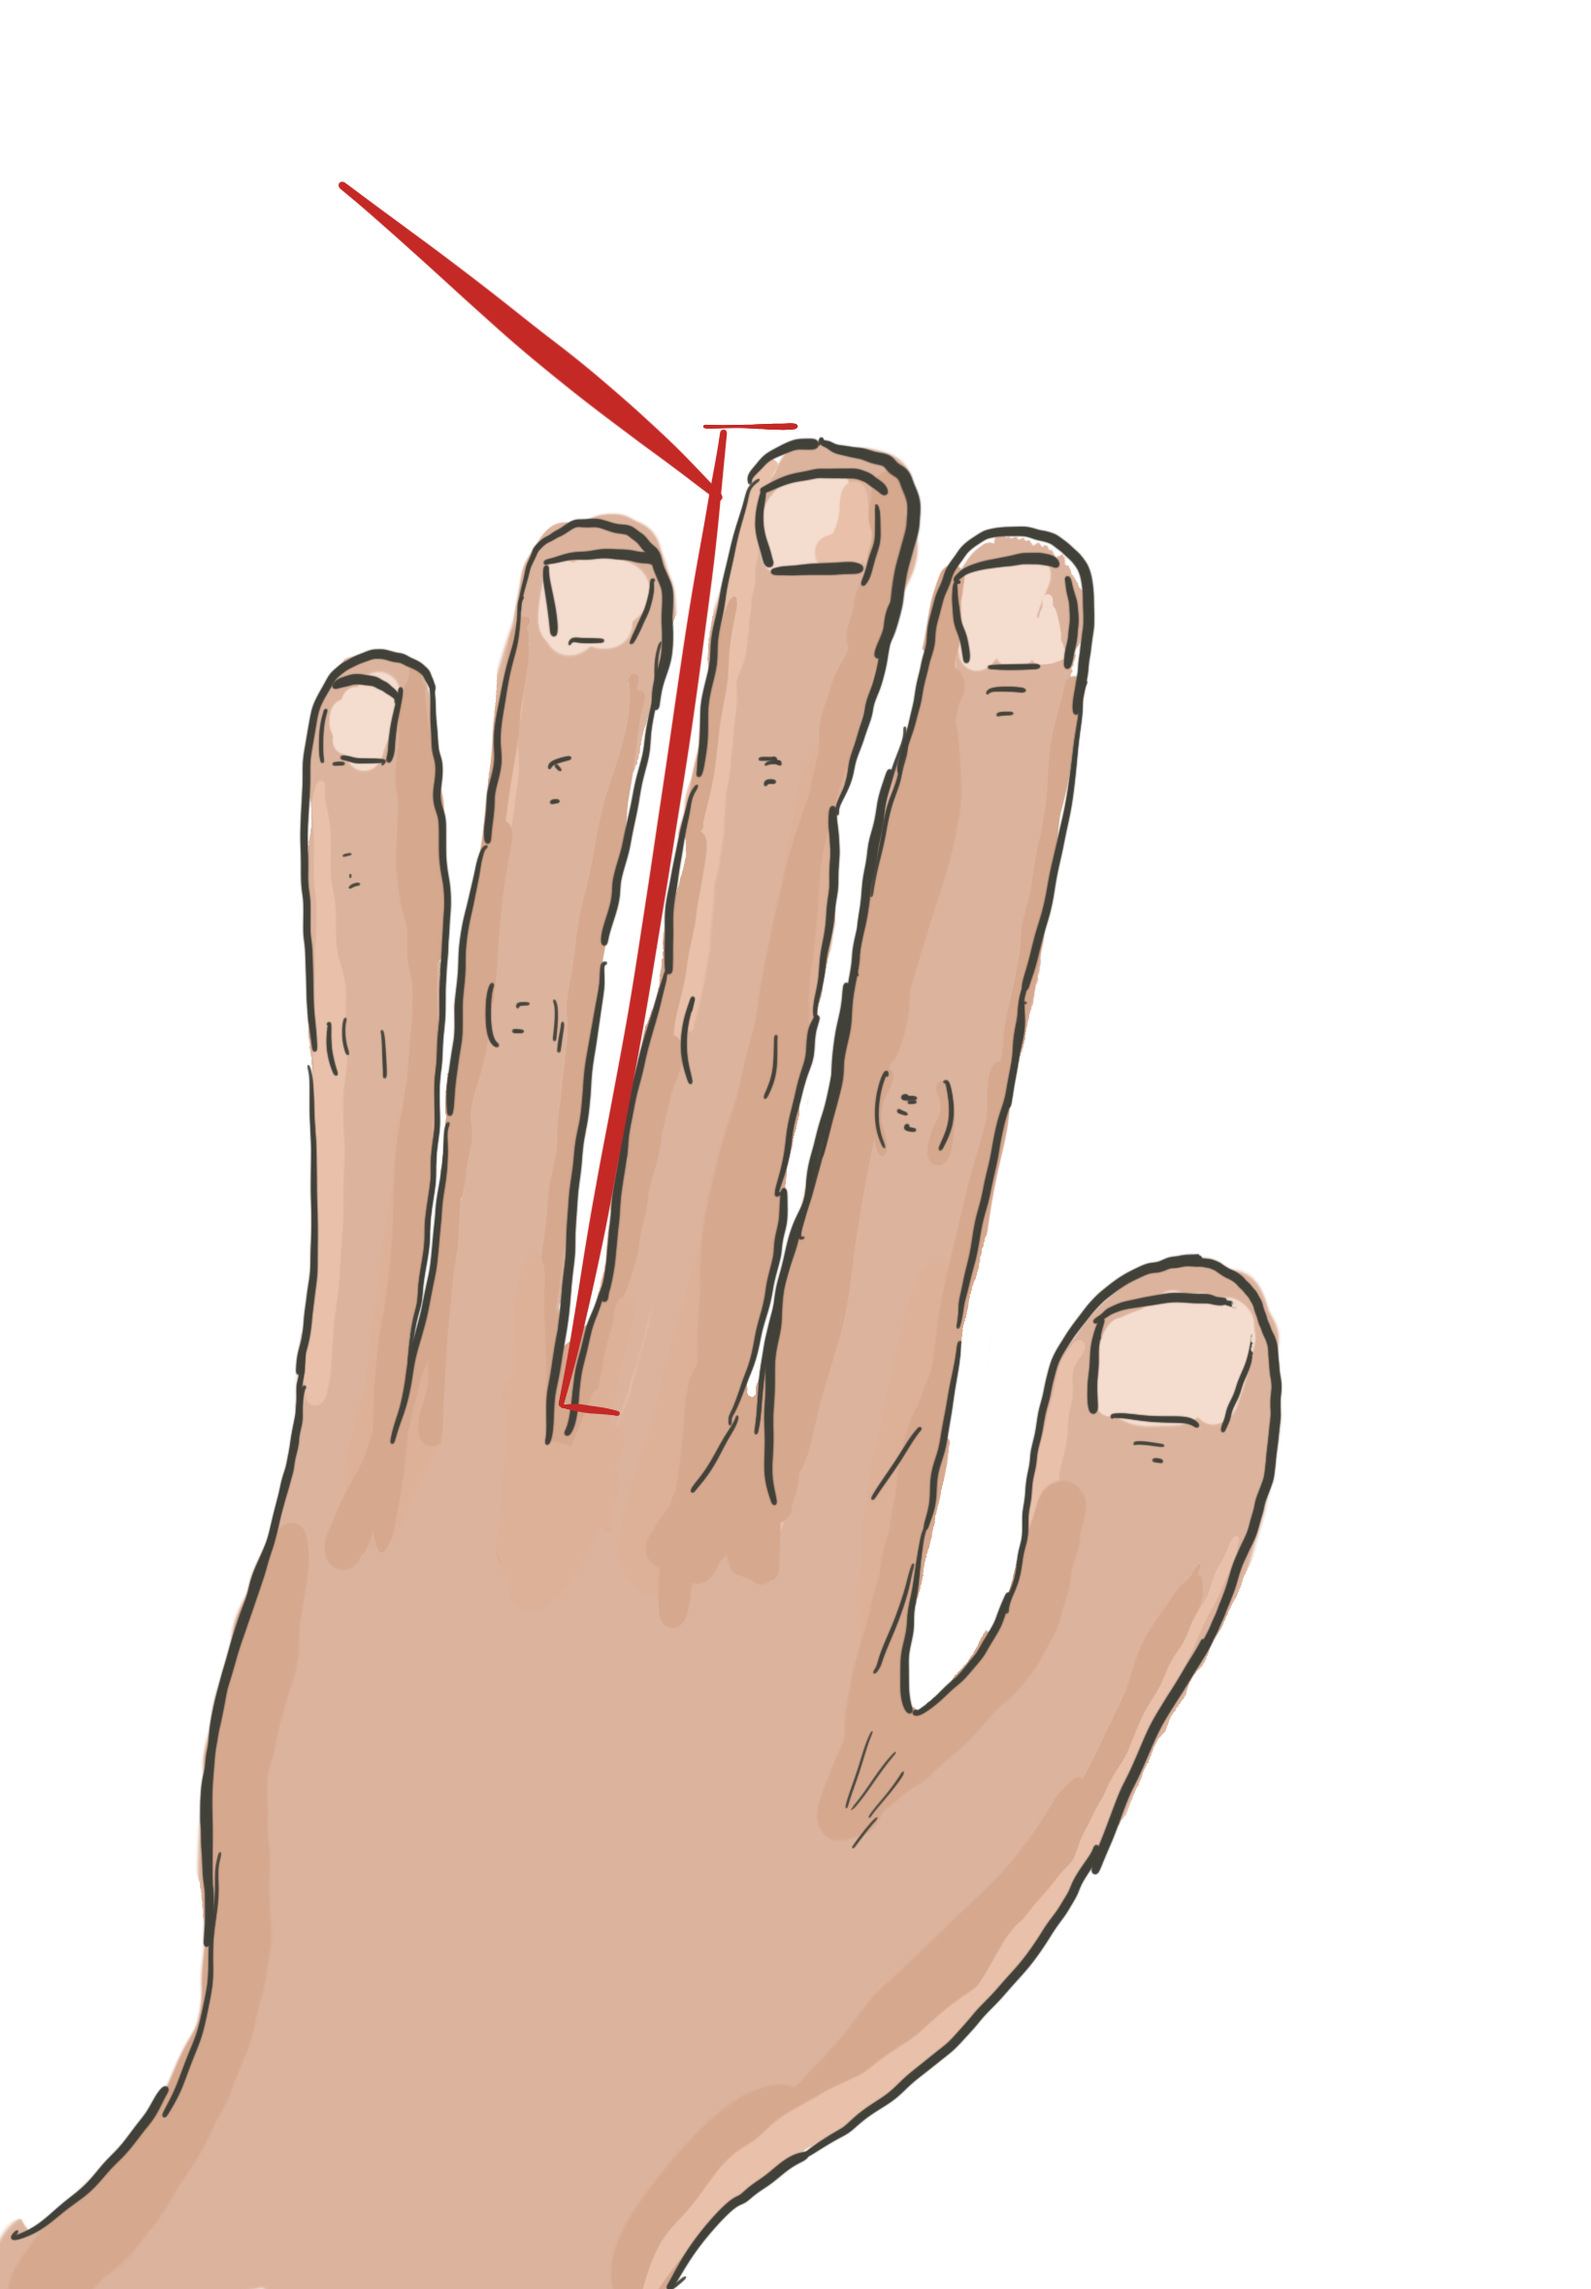
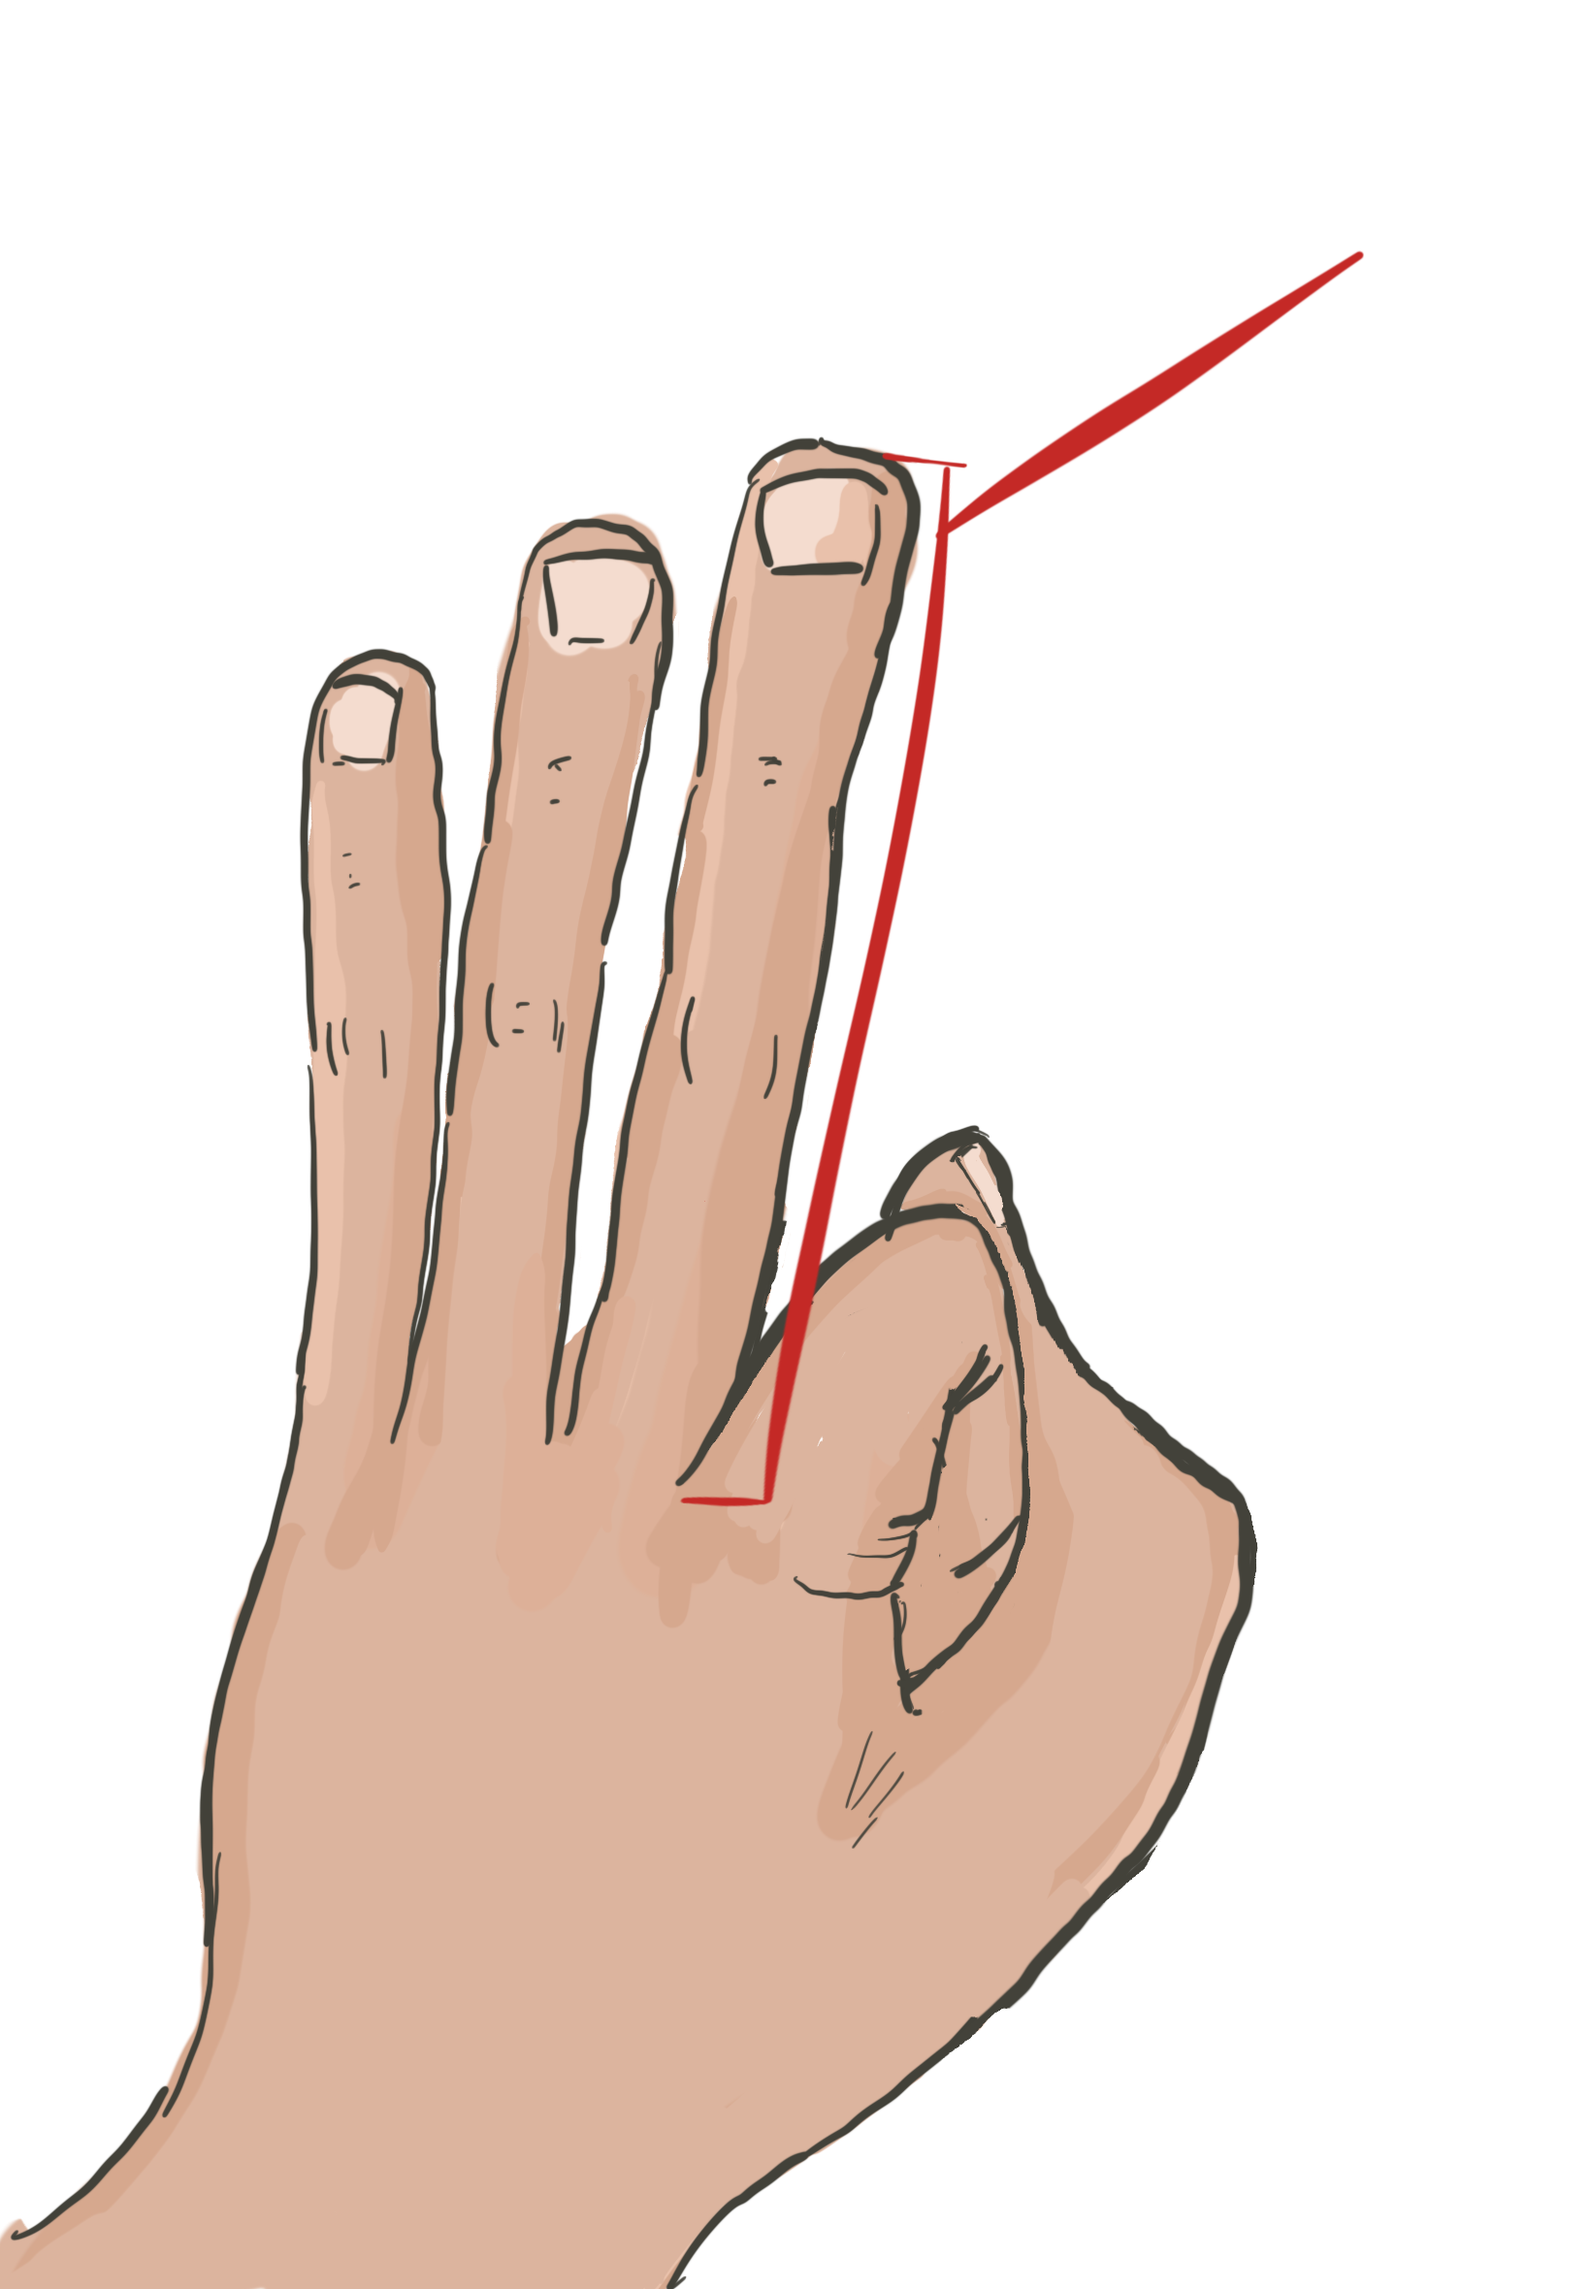
Polish hummingbird drawing section and body text
Update hand-scale illustration, re-crop video with cream background,
center annotation on measurement line, add paper border, remove
rotation. Bump body text to industry-standard sizing (19px, 1.65
line-height, 660px measure).

diff --git a/src/routes/visual-essays/a-hummingbird-the-size-of-your-finger-just-flew-3-617-miles/+page.svelte b/src/routes/visual-essays/a-hummingbird-the-size-of-your-finger-just-flew-3-617-miles/+page.svelte
@@ -71,7 +71,7 @@
 			<video autoplay loop muted playsinline aria-label="A rufous hummingbird hovering at a backyard feeder">
 				<source src="/art/hummingbird/rufous-feeder.webm" type="video/webm" />
 			</video>
-			<span class="hand-label">Average length of Rufous Hummingbird</span>
+			<span class="hand-label">Average length of Rufous Hummingbird<br />(2.8–3.5 inches)</span>
 		</div>
 	</section>
 
@@ -210,7 +210,7 @@
 
 	/* 4. Taped-in drawing */
 	.drawing {
-		max-width: 600px;
+		max-width: 800px;
 		margin: 0 auto;
 		padding: 1rem var(--gutter, 16px) 1rem;
 	}
@@ -229,10 +229,11 @@
 		align-items: center;
 		justify-content: center;
 		gap: 0;
-		transform: rotate(-1.2deg);
+		transform: none;
 		background: #fffdf8;
 		padding: 1.25rem 1rem 0.75rem;
 		border-radius: 2px;
+		border: 1px solid rgba(0, 0, 0, 0.08);
 	}
 
 	.hand-scale img {
@@ -262,14 +263,16 @@
 
 	.hand-label {
 		position: absolute;
-		top: 6%;
-		left: 3%;
+		top: 6.5%;
+		left: 50%;
+		transform: translateX(-50%);
 		font-family: var(--font-body, 'Karla', sans-serif);
 		font-weight: 700;
-		font-size: clamp(0.625rem, 2vw, 0.8125rem);
+		font-size: clamp(0.625rem, 2.5vw, 1rem);
 		color: #e0301e;
-		max-width: 8em;
+		white-space: pre-line;
 		line-height: 1.3;
+		text-align: center;
 	}
 
 	@media (max-width: 400px) {
@@ -331,7 +334,7 @@
 	.context:last-of-type  { padding-top: 1rem; padding-bottom: 3rem; }
 
 	.context-inner {
-		max-width: 600px;
+		max-width: 660px;
 		margin: 0 auto;
 	}
 
@@ -344,9 +347,9 @@
 
 	.context p {
 		font-family: var(--font-body, 'Karla', sans-serif);
-		font-size: 1rem;
-		line-height: 1.6;
-		margin: 0 0 0.75rem;
+		font-size: 1.1875rem;
+		line-height: 1.65;
+		margin: 0 0 1em;
 		color: var(--text, #16151a);
 	}
 
